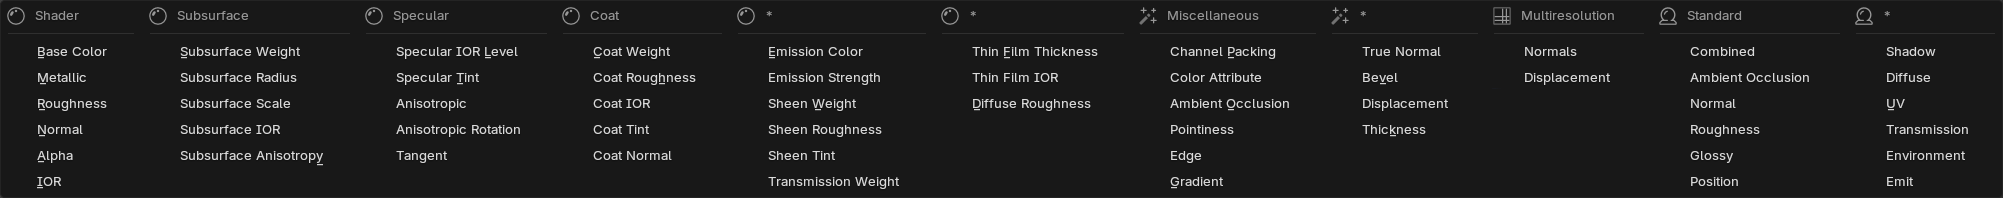
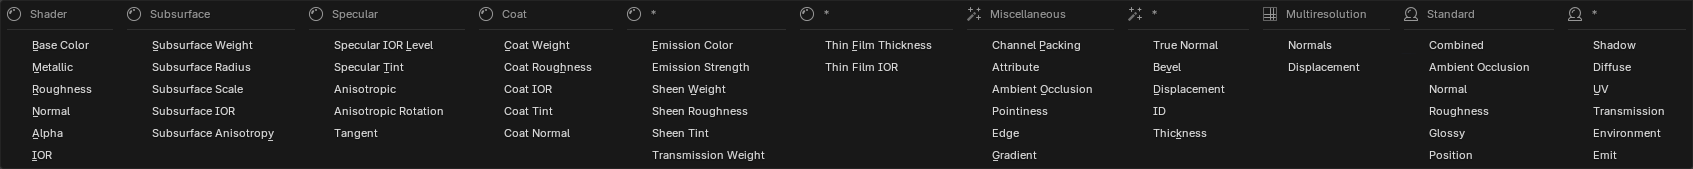
.

diff --git a/index.html b/index.html
@@ -89,6 +89,10 @@
                 <a href="https://imtsybe.github.io/media/shader_editor_focus.png" target="_blank"><img src="media/shader_editor_focus.png" class="media"></a>
                 <div class="media-overlay" style="font-size: 25px;">Gradient</div>
             </div>
+            <div class="container">
+                <a href="https://imtsybe.github.io/media/shader_editor_focus.png" target="_blank"><img src="media/shader_editor_focus.png" class="media"></a>
+                <div class="media-overlay" style="font-size: 25px;">ID</div>
+            </div>
         </div> 
     </div> 
 
